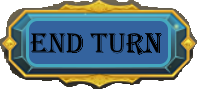
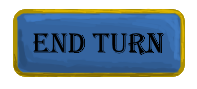
Changed/updated sprites
For Menu, End Turn, Win/Lose and DeckManager

diff --git a/StorageSpace.cs b/StorageSpace.cs
@@ -149,8 +149,8 @@ namespace PriateCardGame
             if (this.card != null)
             {
                 this.card.Draw(spriteBatch);
-                spriteBatch.DrawString(GameWorld.font, $"({storageOwned}) in storage)", new Vector2(this.Collision.Left, this.Collision.Top - 20), Color.Black);
-                spriteBatch.DrawString(GameWorld.font, $"({deckOwned}) in deck", new Vector2(this.Collision.Left, this.Collision.Bottom + 5), Color.Black);
+                spriteBatch.DrawString(GameWorld.font, $"({storageOwned}) in storage)", new Vector2(this.Collision.Left, this.Collision.Top - 20), Color.White);
+                spriteBatch.DrawString(GameWorld.font, $"({deckOwned}) in deck", new Vector2(this.Collision.Left, this.Collision.Bottom + 5), Color.White);
             }
             
         }

diff --git a/GameWorld.cs b/GameWorld.cs
@@ -1011,7 +1011,7 @@ namespace PriateCardGame
             _spriteBatch.Draw(deckBuildingBackground, new Vector2(0, 0), Color.White);
 
             _spriteBatch.DrawString(font, $"Deck: {PlayerDeck.Count}/30", new Vector2(980 , 750), Color.White);
-            _spriteBatch.DrawString(font, $"Page: {pageNumber+1}/3", new Vector2(375, 650), Color.Black);
+            _spriteBatch.DrawString(font, $"Page: {pageNumber+1}/3", new Vector2(375, 650), Color.White);
 
             var max = 12 + ScrollValue;
             if (max >=PlayerDeck.Count)
